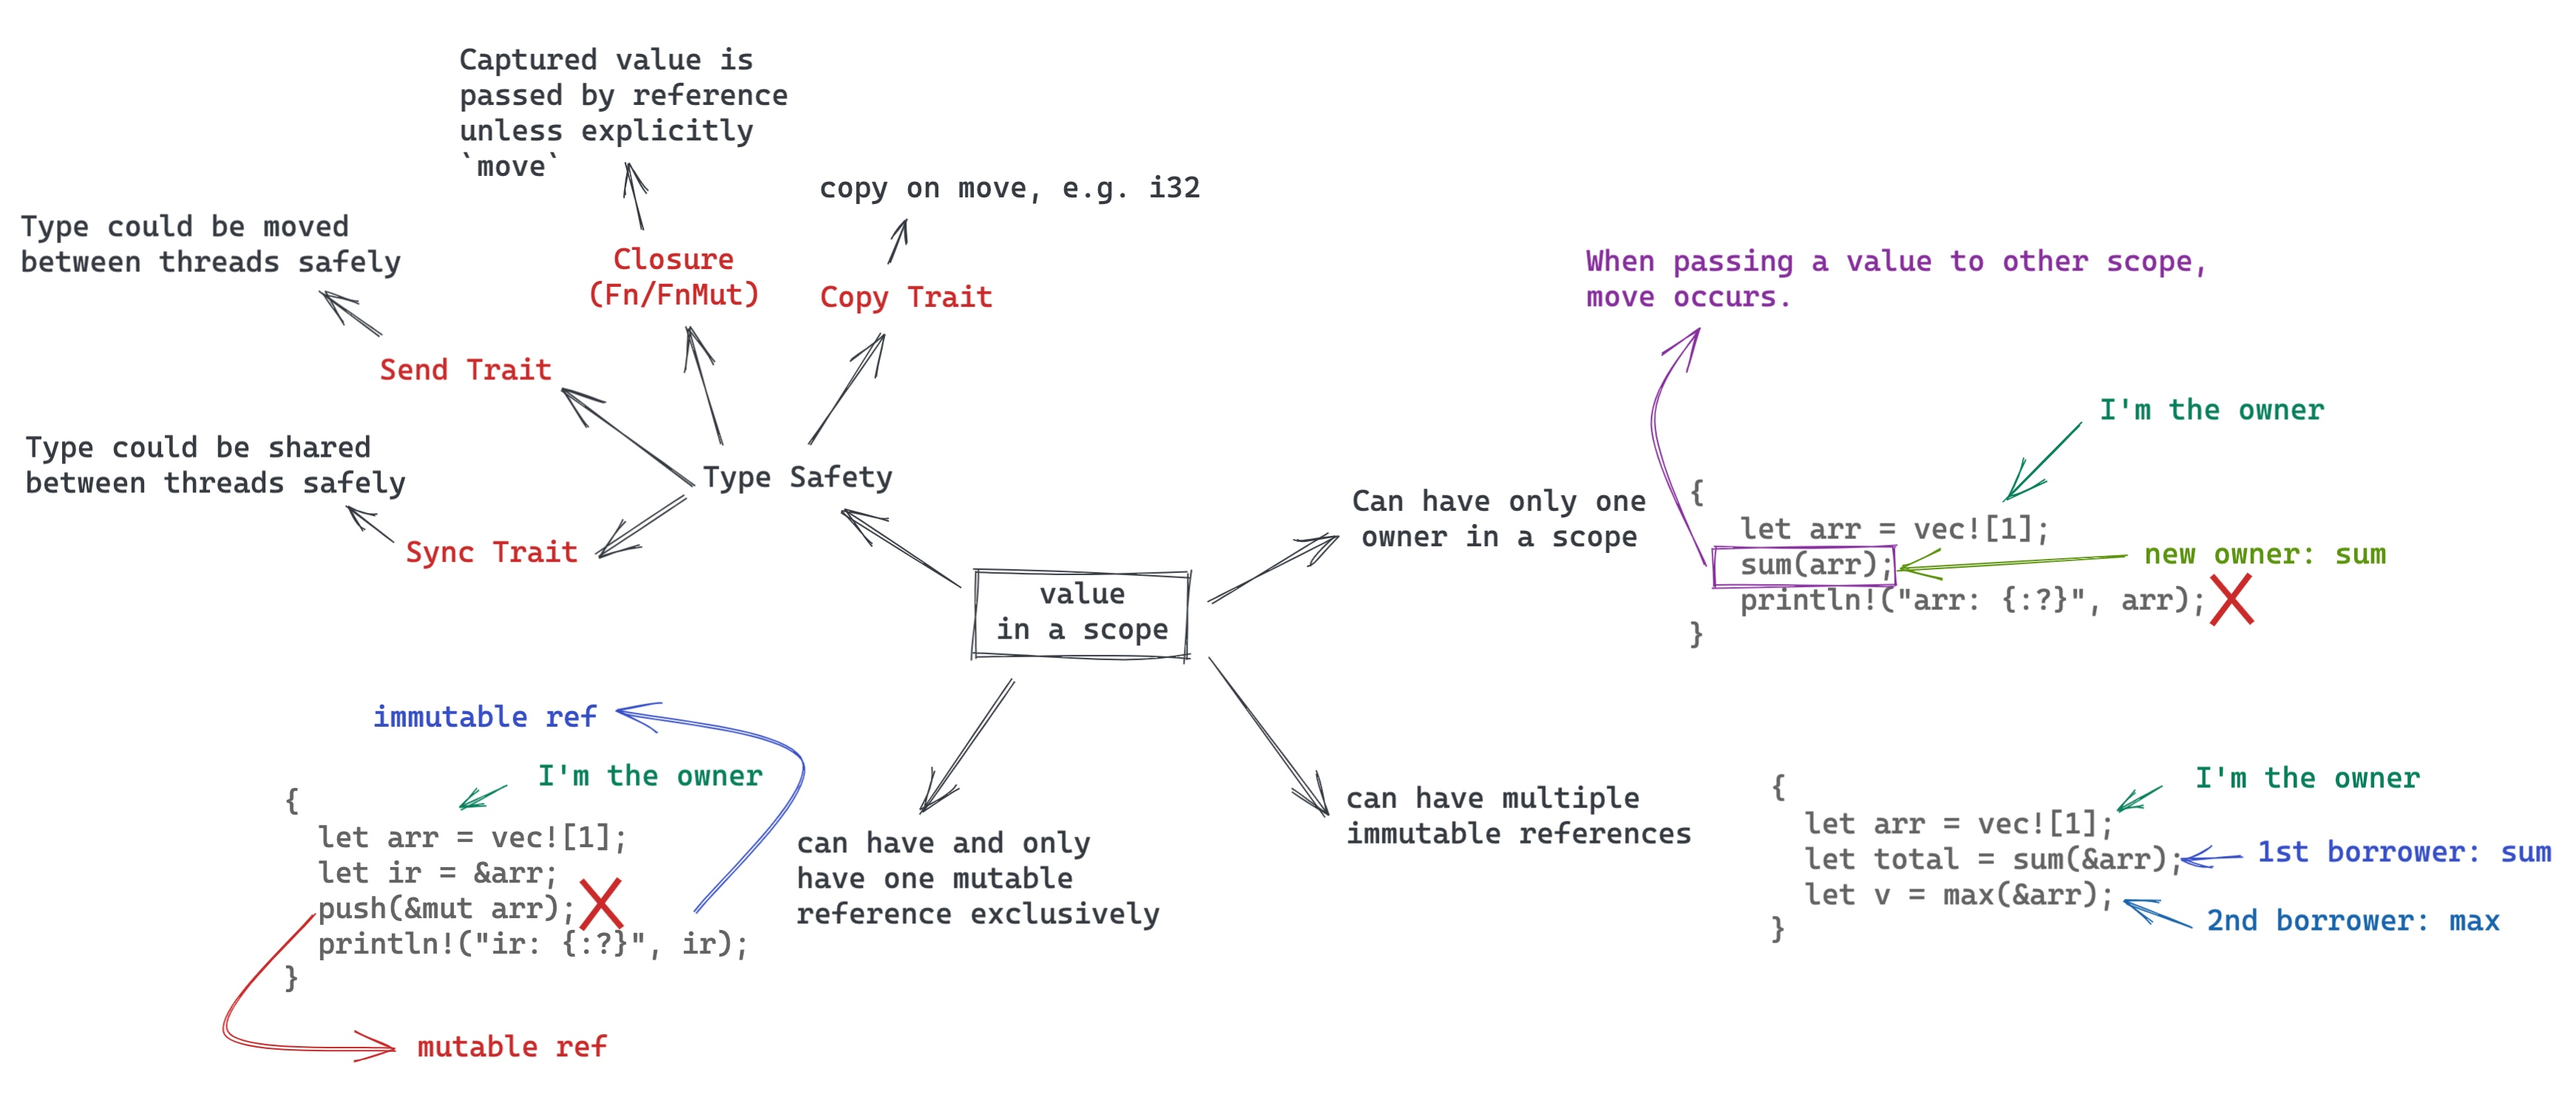
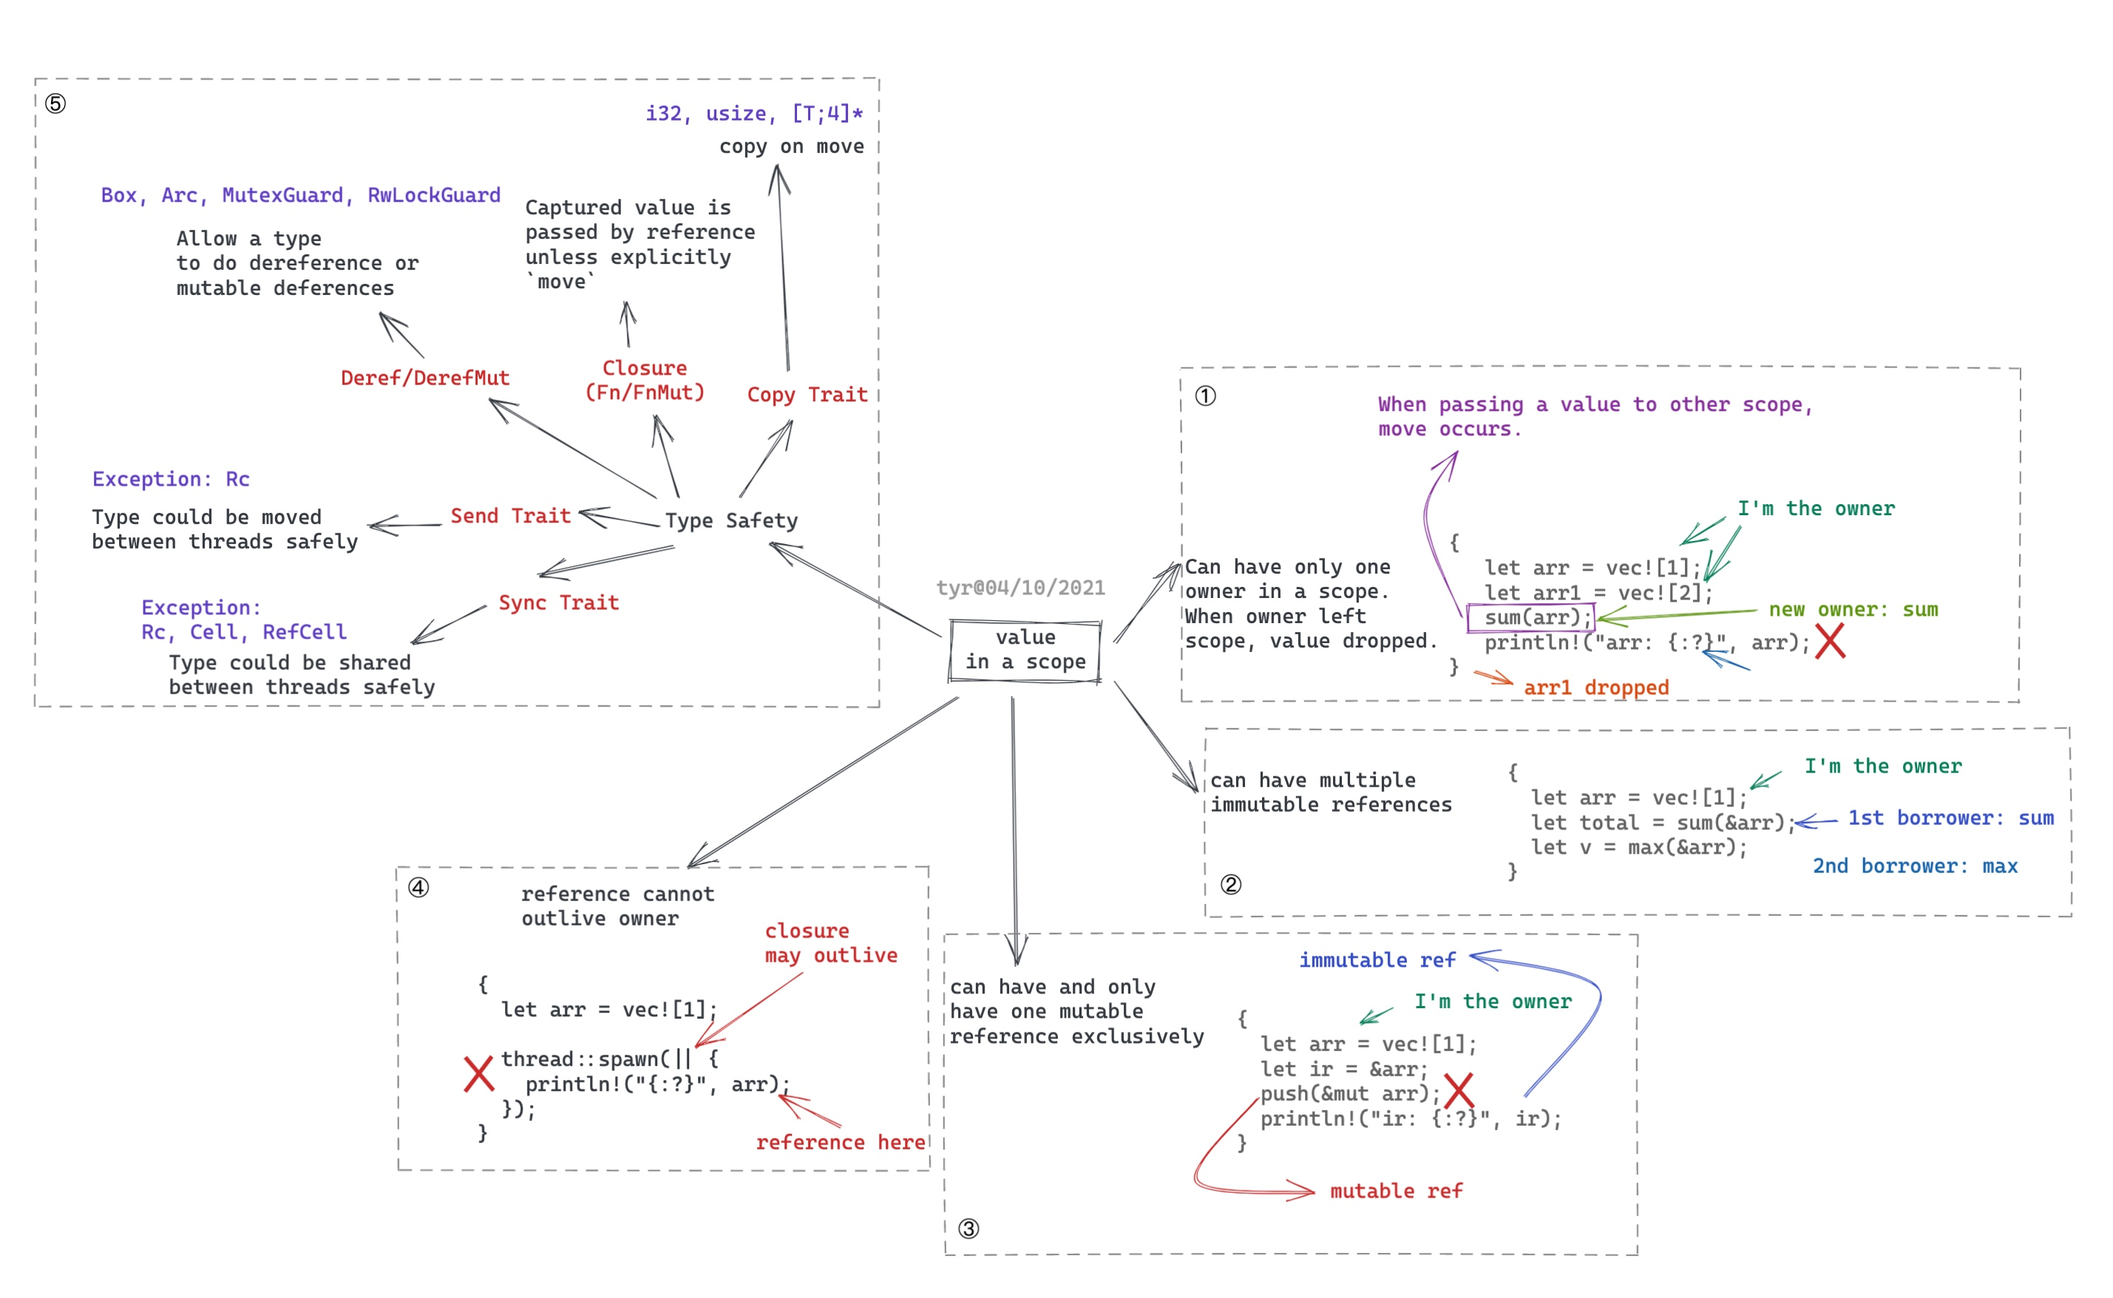
update slides

diff --git a/slides/rust-training-all-in-one.md b/slides/rust-training-all-in-one.md
@@ -32,7 +32,174 @@ theme: uncover
 
 ---
 
-![bg fit](images/programming_lang.jpg)
+### Let's talk about values and tradeoffs first
+
+<style scoped>
+    ul { columns: 3; width: 90%; }
+</style>
+
+- Approachability
+- Availability
+- Compatibility
+- Composability
+- Debuggability
+- Expressiveness
+- Extensibility
+- Interoerability
+- Integrity
+- Maintainabiity
+- Measurability
+- Operability
+- Performance
+- Portability
+- Productivity
+- Resilliency
+- Rigor
+- Safety
+- Security
+- Simplicity
+- Stability
+- Thoroughness
+- Transparent
+- Velocity
+
+---
+
+## Erlang/Elixir
+
+<style scoped>
+    ul { columns: 3; width: 90%; color: #ddd; }
+</style>
+
+- Approachability
+- Availability
+- Compatibility
+- Composability
+- Debuggability
+- Expressiveness
+- Extensibility
+- Interoerability
+- Integrity
+- Maintainabiity
+- Measurability
+- Operability
+- _Performance_
+- Portability
+- _Productivity_
+- _Resilliency_
+- Rigor
+- _Safety_
+- Security
+- _Simplicity_
+- Stability
+- Thoroughness
+- Transparent
+- Velocity
+
+---
+
+## Python
+
+<style scoped>
+    ul { columns: 3; width: 90%; color: #ddd; }
+</style>
+
+- _Approachability_
+- Availability
+- Compatibility
+- Composability
+- Debuggability
+- _Expressiveness_
+- Extensibility
+- Interoerability
+- Integrity
+- Maintainabiity
+- Measurability
+- Operability
+- Performance
+- Portability
+- _Productivity_
+- Resilliency
+- Rigor
+- Safety
+- Security
+- _Simplicity_
+- Stability
+- Thoroughness
+- Transparent
+- Velocity
+
+---
+
+## Java (in early days)
+
+<style scoped>
+    ul { columns: 3; width: 90%; color: #ddd; }
+</style>
+
+- Approachability
+- Availability
+- Compatibility
+- Composability
+- Debuggability
+- Expressiveness
+- Extensibility
+- Interoerability
+- Integrity
+- Maintainabiity
+- Measurability
+- Operability
+- _Performance_
+- _Portability_
+- Productivity
+- Resilliency
+- Rigor
+- _Safety (memory)_
+- _Security_
+- Simplicity
+- Stability
+- Thoroughness
+- Transparent
+- Velocity
+
+---
+
+## Rust
+
+
+<style scoped>
+    ul { columns: 3; width: 90%; color: #ddd; }
+</style>
+
+- Approachability
+- Availability
+- Compatibility
+- Composability
+- Debuggability
+- _Expressiveness_
+- Extensibility
+- Interoerability
+- Integrity
+- Maintainabiity
+- Measurability
+- Operability
+- _Performance_
+- Portability
+- _Productivity_
+- Resilliency
+- Rigor
+- _Safety!!!_
+- Security
+- Simplicity
+- Stability
+- Thoroughness
+- Transparent
+- Velocity
+
+
+---
+
+![bg fit](images/programming_lang1.jpg)
 
 ---
 
@@ -70,17 +237,29 @@ h6 {font-size: 16px;}
 
 ---
 
+## How ownership works?
+
+- Question to ask - Passing value: by ref or by value?
+- Answers from Rust:
+  - A value can only have one owner in a scope
+  - When an owned value is out of scope, it is dropped
+  - A value can have multiple immutable references
+  - A value can have only one mutable reference which is mutual exclsive
+  - A reference cannot outlive its owner
+
+---
+
 ## Concurrency safety
 
 - single-threaded - Javascript: cannot leverage multicore
 - GIL - Python/Ruby: multithreading is notorious inefficient
-- Actor model - Erlang/Akka: at the cost of memory copy
-- CSP - Golang: at the cost of memory copy
-- Ownership + Type System - Rust: very elegant and no extra cost!
+- Actor model - Erlang/Akka: at the cost of memory copy and heap allocation
+- CSP - Golang: at the cost of memory copy and heap allocation
+- Ownership + Type System - Rust: super _elegant_ and _no extra cost_!
 
 ---
 
-## How Rust achieve memory safety and conccurency safety?
+### How Rust actually achieves memory safety and conccurency safety?
 
 ---
 
@@ -88,10 +267,20 @@ h6 {font-size: 16px;}
 
 ---
 
+## Show me the code!
+---
+
 <!-- _backgroundColor: #1e1e1e -->
 <!-- _color: #e1e1e1 -->
 
 ![bg fit](images/rust_safety.png)
+
+---
+
+<!-- _backgroundColor: #1e1e1e -->
+<!-- _color: #e1e1e1 -->
+
+![bg fit](images/rust_safety1.png)
 
 ---
 
@@ -107,6 +296,7 @@ h6 {font-size: 18px; margin-top: 40px;}
 - One and only one owner
 - Multiple immutable references
 - mutable reference is mutual exclsive
+- Reference cannot outlive owner
 - _use type safety for thread safety_
 
 ###### With these simple rules, Rust achieved safety with
@@ -116,9 +306,12 @@ h6 {font-size: 18px; margin-top: 40px;}
 
 ## Zero Cost Abstraction
 
-###### _Rust way of searching for solutions_
+###### _Rust way of solving problems_
+
+
 
 ---
+
 
 ---
 
